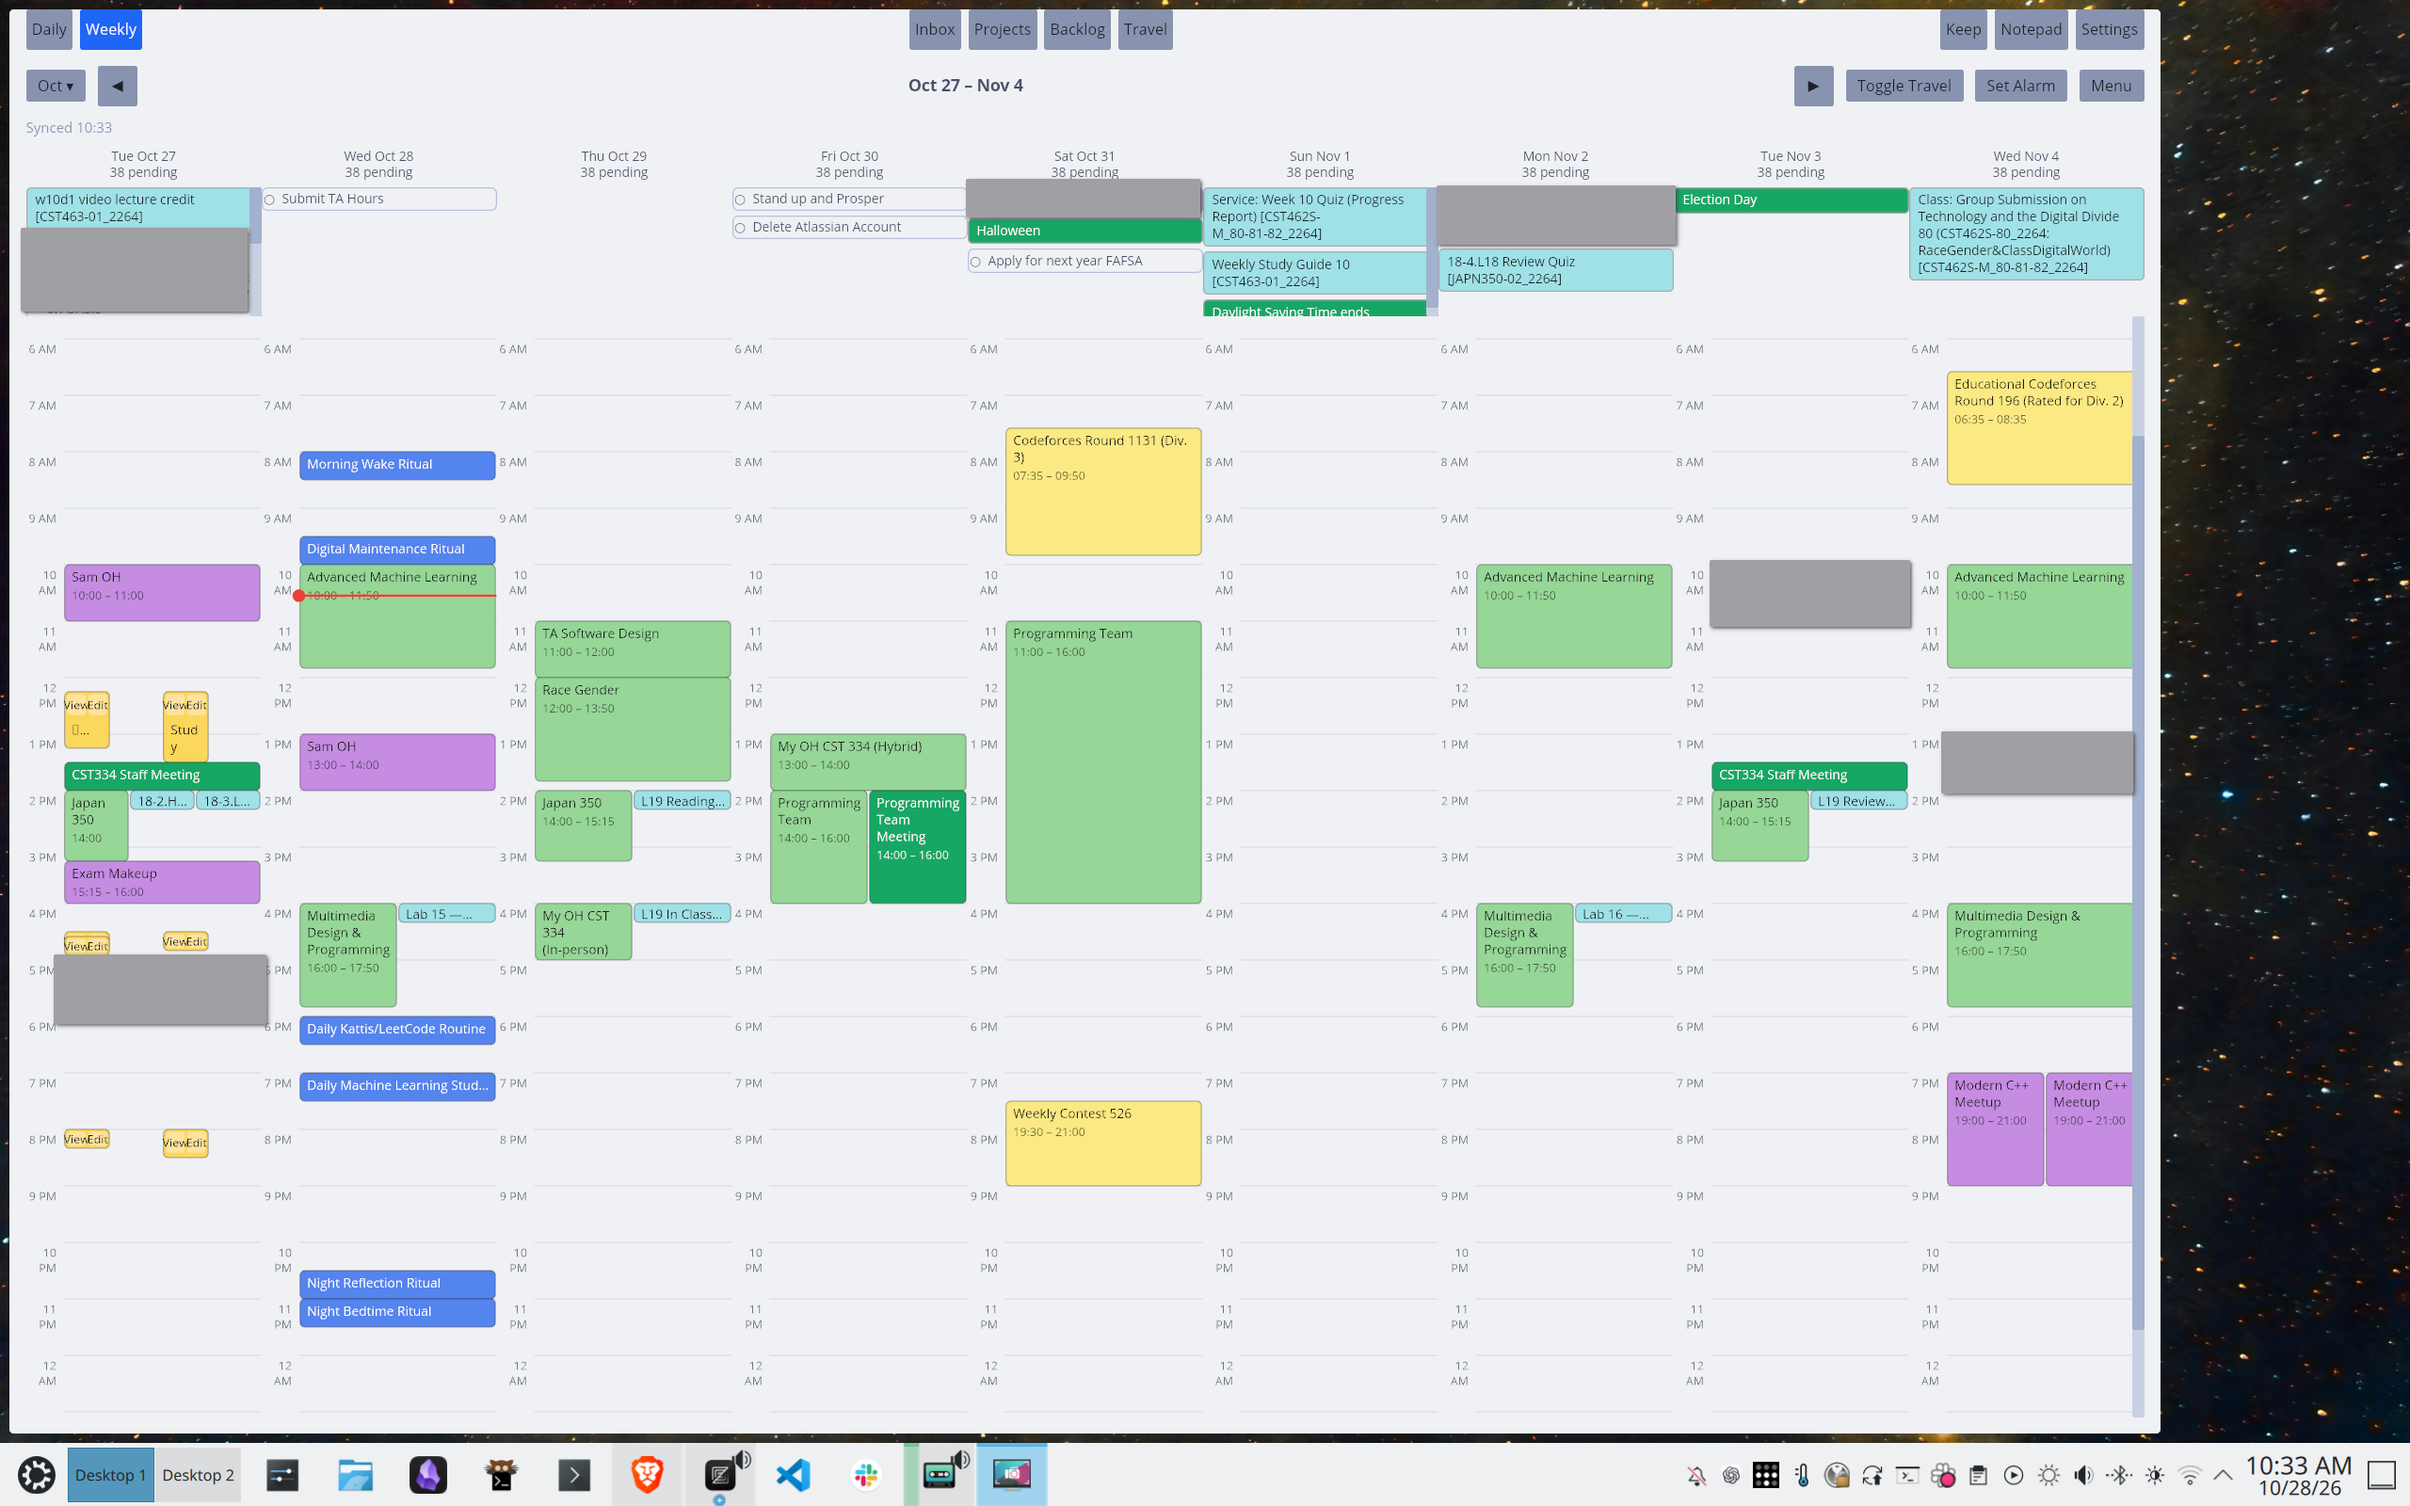
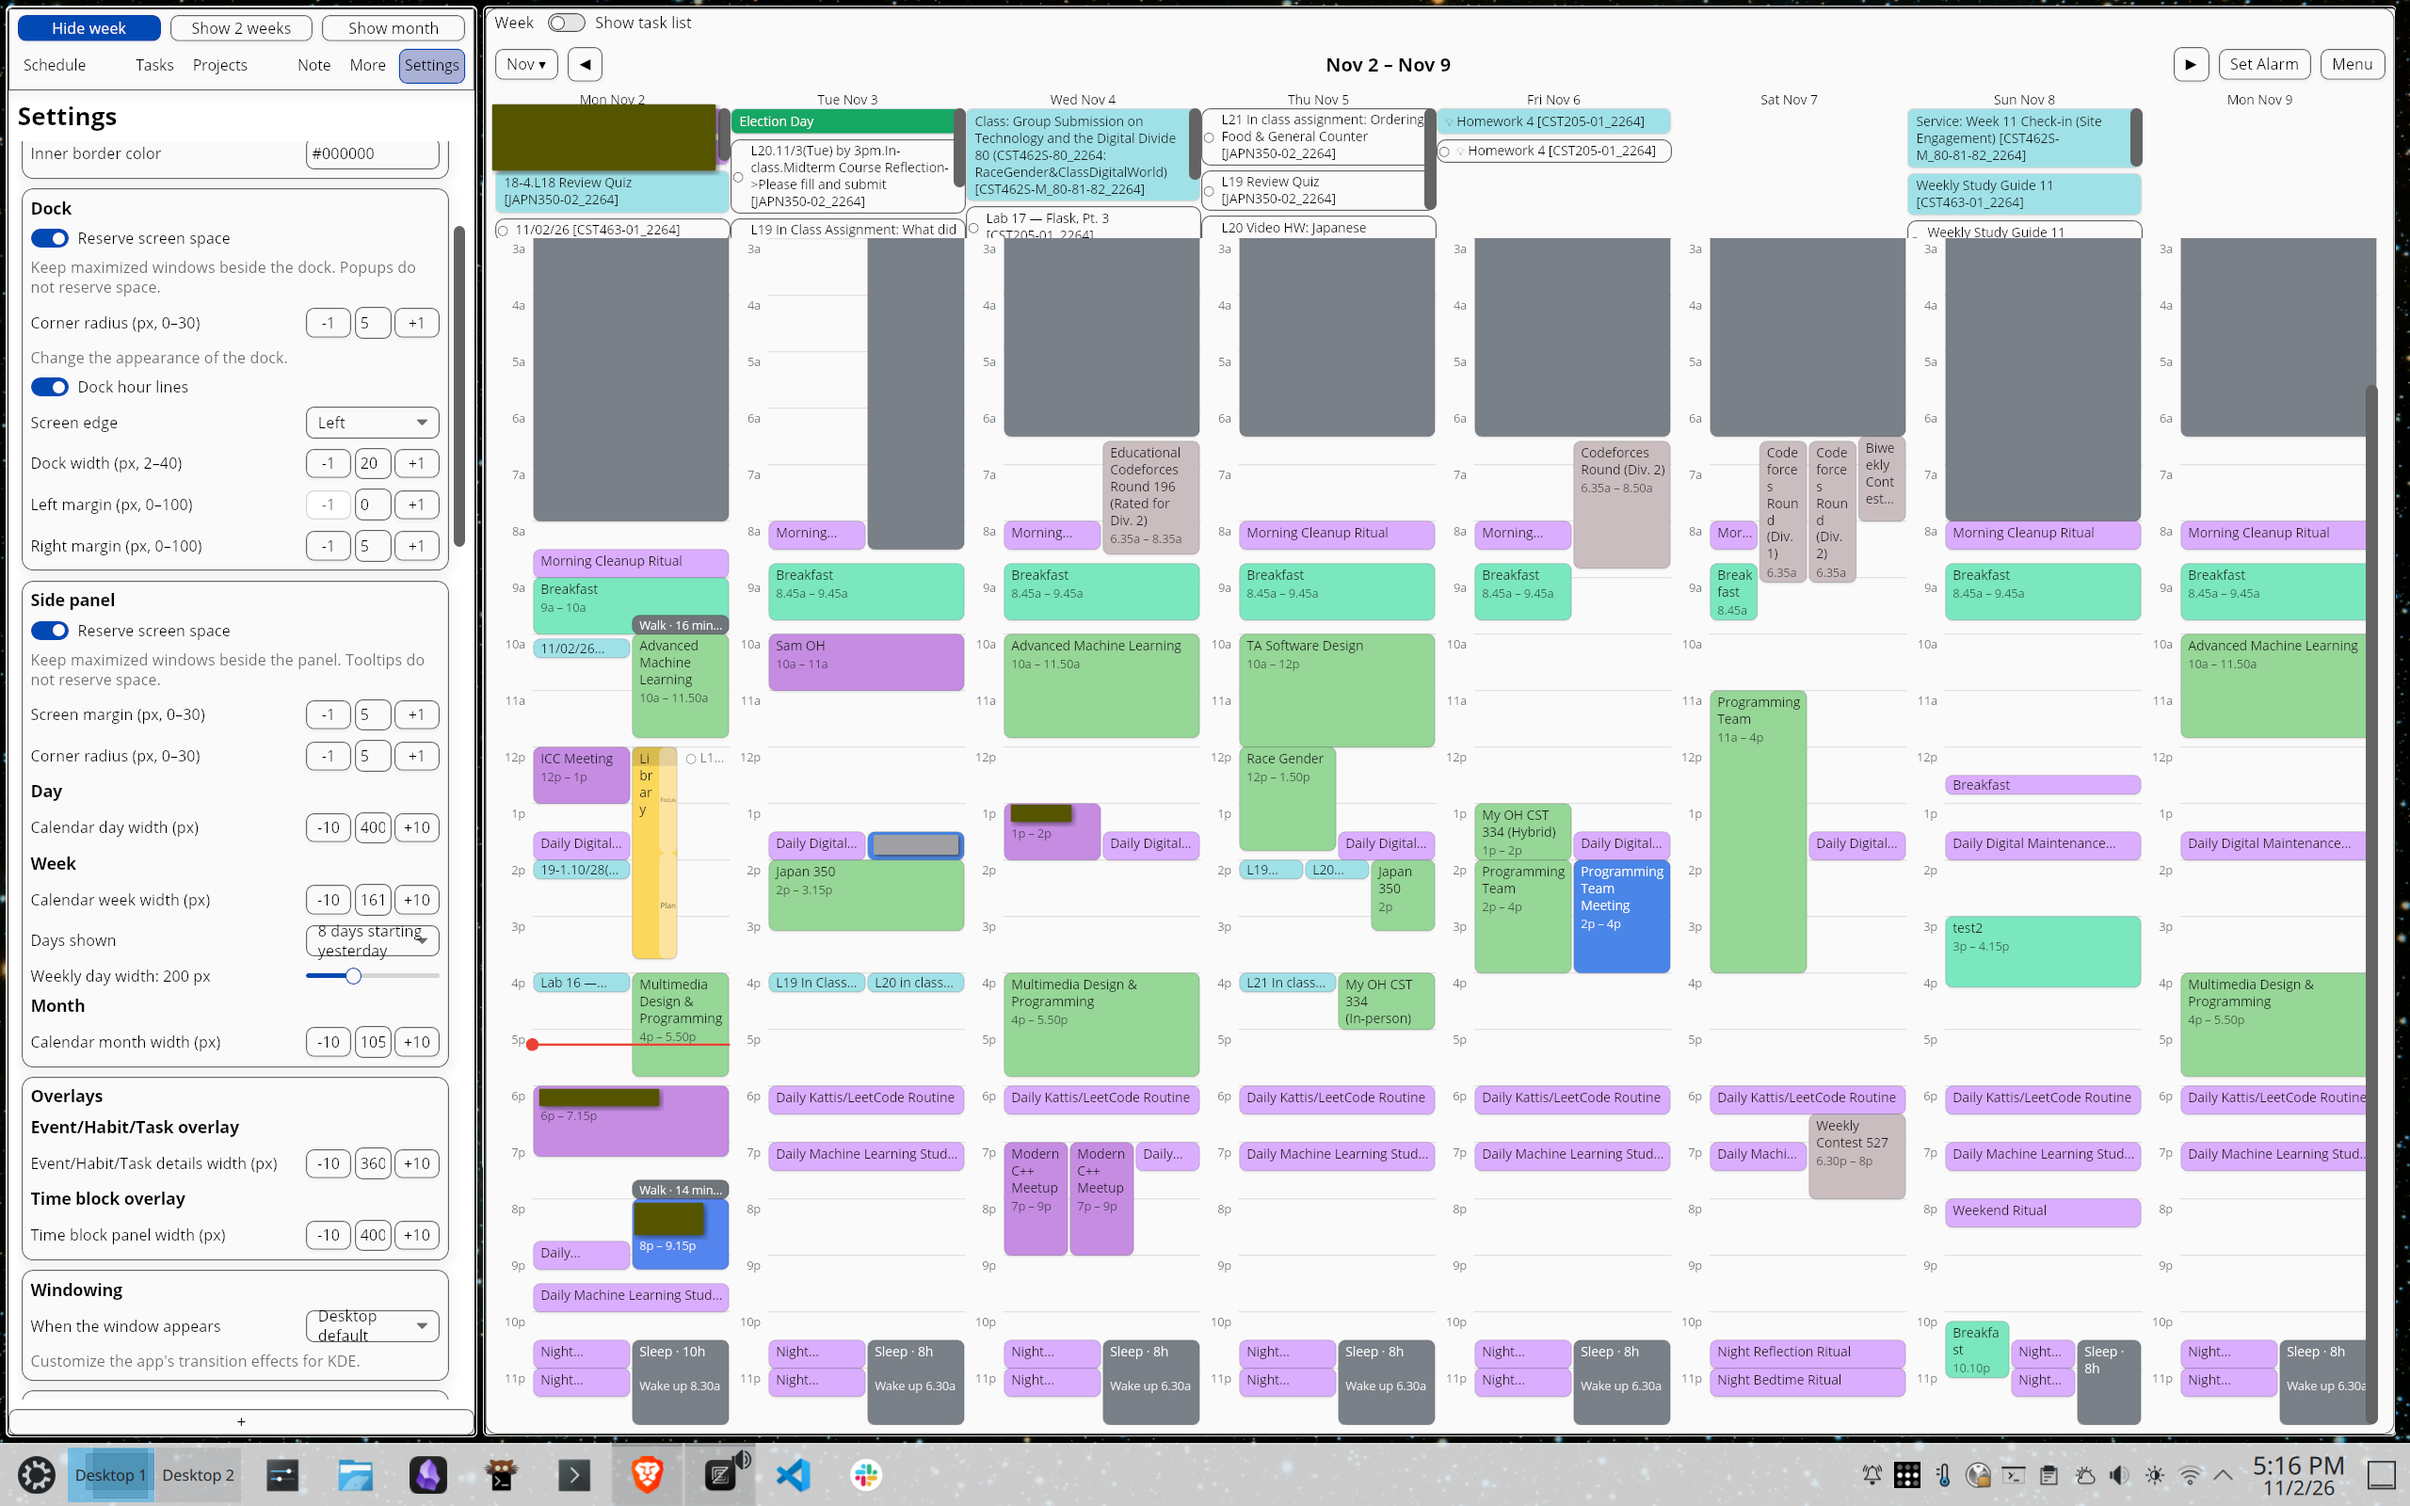
Update screenshots

diff --git a/README.md b/README.md
@@ -4,9 +4,7 @@ Slay the day with TimeSlay.
 
 ## Overview
 
-TimeSlay is designed to help you implement some of the [most popular](https://www.todoist.com/productivity-methods) [productivity methods](https://www.todoist.com/inspiration/personal-productivity-methods#biological-primetime). Rather than spending time switching between, searching through, and using multiple apps, focus on the work.
-
-There's a plethora of nifty features; I'll be listing some of my favorites (TODO).
+TimeSlay is designed to help you implement some of the [most popular](https://www.todoist.com/productivity-methods) [productivity methods](https://www.todoist.com/inspiration/personal-productivity-methods#biological-primetime). Rather than spending time switching between, searching through, and using multiple apps, just focus on the work.
 
 Docked mode is the feature that I love the most. Your day is always at a glance. You can still hover over and edit events/tasks from this view:
 
@@ -14,9 +12,13 @@ Docked mode is the feature that I love the most. Your day is always at a glance.
 
 But you'll typically plan the day within the larger panel:
 
-![Day view](./assets/timeslay-day.png)
+![Day view](./assets/timeslay-schedule.png)
 
-There's week and month views, just like any other calendar app:
+Editing details for events, tasks, time blocks, and more is done within a popup overlay:
+
+![Day view](./assets/timeslay-overlay.png)
+
+Of course, there's also week, 2-week, and month views:
 
 ![Week view](./assets/timeslay-week.png)
 
@@ -35,10 +37,10 @@ There's week and month views, just like any other calendar app:
 		- Omit private event details where applicable
 - Manage your time:
 	- Events
-		- Track the "usual" fields like due dates, deadlines, labels/tags, priorities, location, project name, and more.
-		- Show dedicated buttons for joining Zoom and Google Meet meetings.
-		- Integrate with Zoom and Google Meet to create meetings and invite attendees (TODO).
-		- Integrates with guest/event/RSVP going/not going feature (TODO)
+		- Tracks the "usual" fields like due dates, deadlines, labels/tags, priorities, location, project name, and more.
+		- Shows dedicated buttons for joining Zoom and Google Meet meetings.
+		- Integrates with Zoom and Google Meet to create meetings and invite attendees (TODO).
+		- Allows for replying to [event invitations](https://support.google.com/calendar/answer/37135?hl=en&co=GENIE.Platform%3DDesktop) (TODO).
 		- Uses location data to show estimated travel time for events and to add link to Google Maps (WIP).
 	- Time blocks
 		- These are standard calendar events with a special interface to easily order tasks within them; great for deep work.
@@ -90,7 +92,7 @@ There's week and month views, just like any other calendar app:
 	- During events and tasks associated with a project, easily launch and position the apps/windows necesssary to do the work. (TODO)
 	- Allow voice recording ideas related to project, and AI process into summary that might be general idea, or actual task (TODO).
 - People.
-	- Browse and edit contacts from Google accounts and workspace directories.
+	- Browse and edit contacts from Google accounts and Google workspace directories.
 	- Associate people with events, tasks, and projects (TODO).
 	- One-click contact methos for email, Slack (TODO).
 - Stores data in Google Calendar, Tasks, Contacts and Drive to get cross-device syncing for free.
